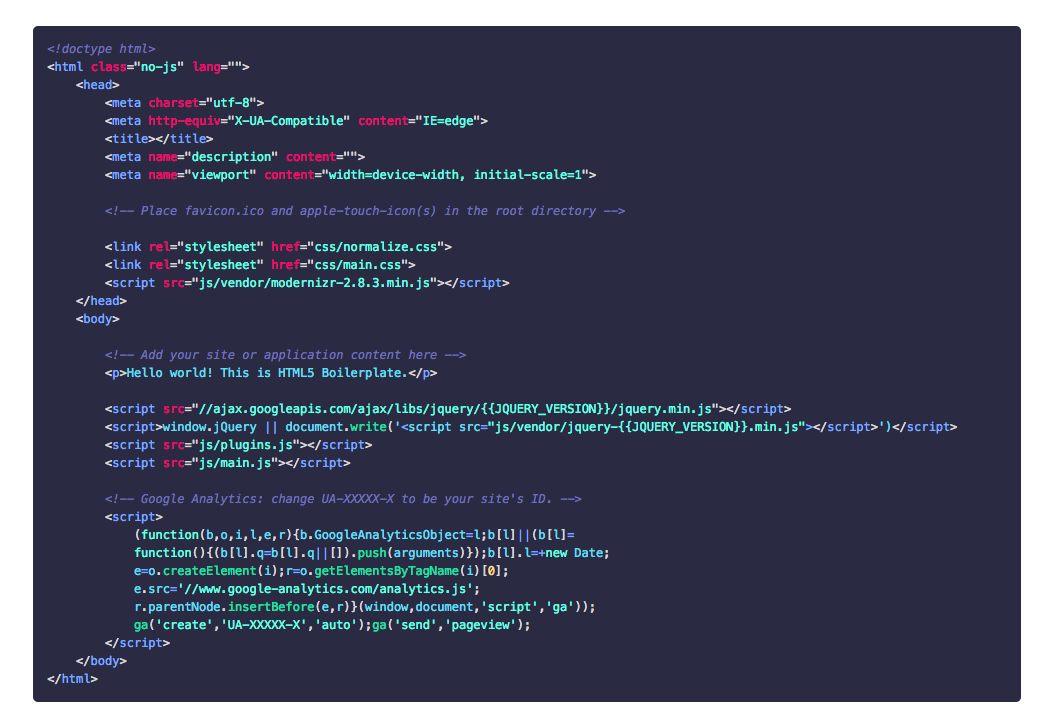
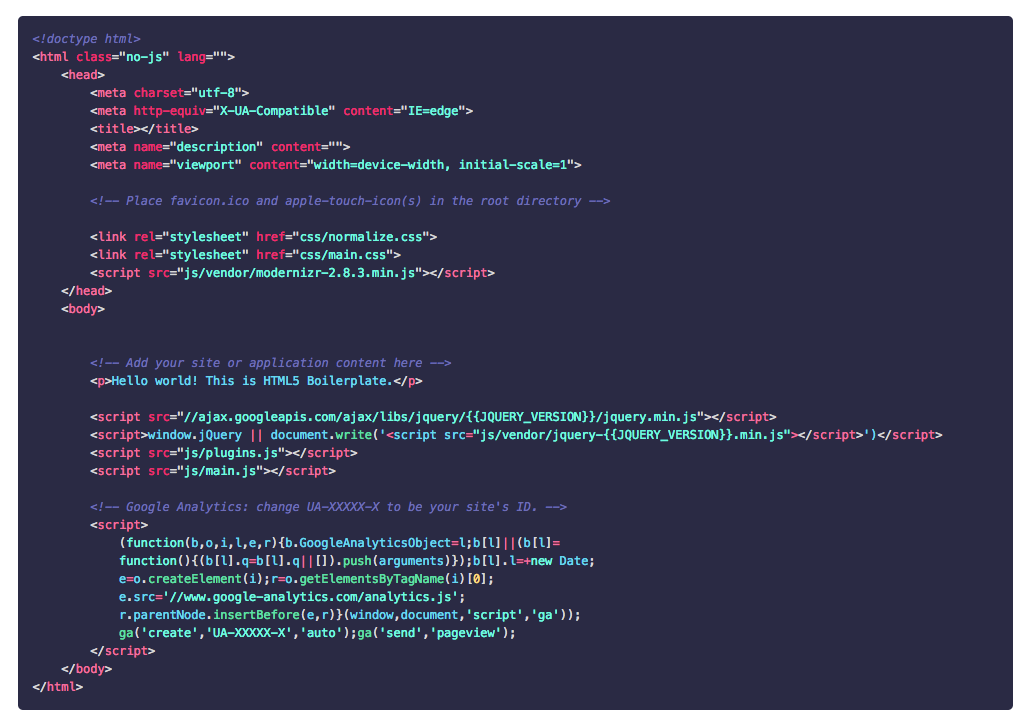
Update SCSS form html language, update image HTMLlanguage

Changed region(s): [[0.0, 0.0, 0.9951, 1.0]]

diff --git a/gloom-prism.scss b/gloom-prism.scss
@@ -193,6 +193,17 @@ code.language-scss,
 }
 
 /*
+* Lenguage HTML
+*/
+
+.language-html {
+   .token {
+      & .tag {
+         color: $pink-light;
+      }
+   }
+}
+/*
 * Lenguage PHP
 */
 

diff --git a/gloom-prism.css b/gloom-prism.css
@@ -146,6 +146,12 @@ code.language-scss,
   color: #fff !important; }
 
 /*
+* Lenguage HTML
+*/
+.language-html .token .tag {
+  color: #FF6F9F; }
+
+/*
 * Lenguage PHP
 */
 .language-php {
